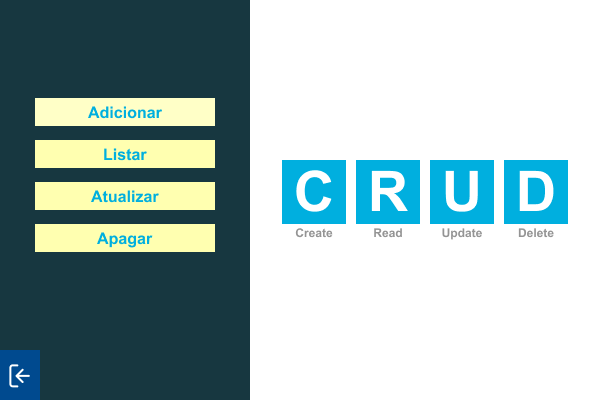
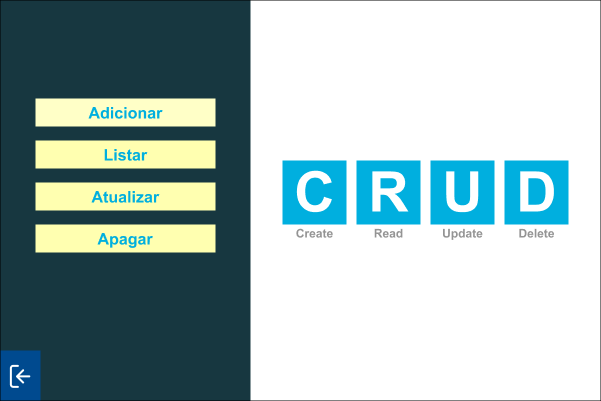
Criação da janela gráfica

diff --git a/CrudCsv.java b/CrudCsv.java
@@ -1,3 +1,23 @@
+import javax.swing.JFrame;
+
 public class CrudCsv {
-    
+    public static void main(String[] args) {
+        iniciar();
+    }
+
+    private static void iniciar() {
+        Window window = new Window("CRUD csv");
+        window.setVisible(true);
+    }
+
+    static class Window extends JFrame {
+        public Window(String titulo) {
+            super(titulo);
+            // Configurações da janela
+            this.setSize(600, 400);
+            this.setDefaultCloseOperation(JFrame.EXIT_ON_CLOSE);
+            this.setLocationRelativeTo(null);  // Centralizada na tela
+            this.setResizable(false);  // Não redimensionável
+        }
+    }
 }

diff --git a/README.md b/README.md
@@ -2,7 +2,8 @@
 
 Aplicação desktop usando Java para manipulação de arquivos CSV e realização de operações CRUD (Create, Read, Update e Delete).
 
-> [!IMPORTANT] **Nota**
+> [!IMPORTANT]
+> **Nota**
 >
 > Aplicação para fins de estudo e aprendizagem, com o objetivo de praticar Java, Java Swing, operações CRUD e manipulação de arquivos CSV.
 
